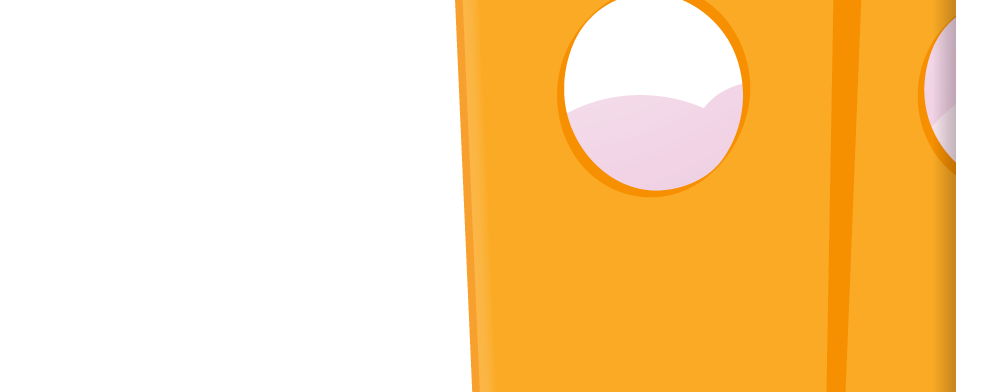
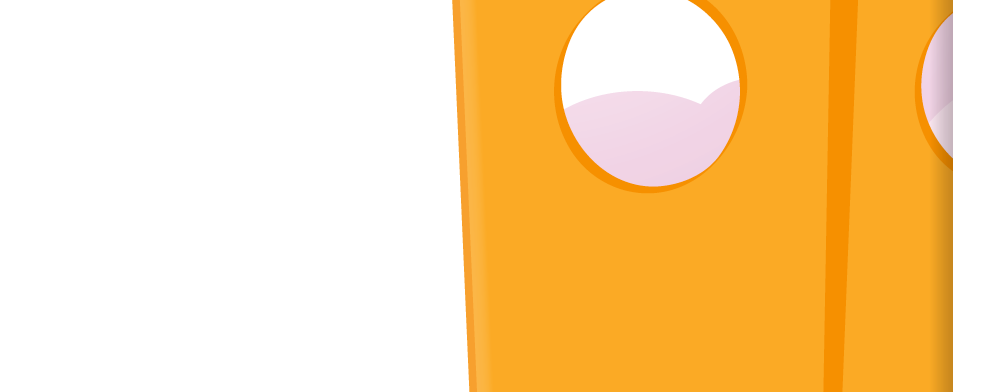
Fixed Drink backgrounds

diff --git a/war/stylesheets/style.css b/war/stylesheets/style.css
@@ -232,6 +232,7 @@ input,select {
 .headerDoor {
 	position: relative;
 	min-height: 149px;
+	top:1px;
 	background: URL("../images/headerDoor.png");
 	background-repeat: no-repeat
 }
@@ -257,23 +258,54 @@ input,select {
 }
 
 	/* DRINK */
-
-orderSubmitterAlternateBody{
+	
+.orderSubmitterAlternateBodyPanel{
 	position: relative;
 	min-height: 392px;
+	width:500px;
+
 }
 
 
-orderSubmitterAlternateBodytile{
+.orderSubmitterAlternateBodytilePanel{
 	position: relative;
 	min-height: 1px;
+	width:500px;
+
 }
 
-orderSubmitterAlternateFooter{
+.orderSubmitterAlternateFooterPanel{
 	position: relative;
 	min-height: 159px;
+
 }
 
+.orderSubmitterAlternateBody{
+	position: relative;
+	min-height: 392px;
+	background: URL("../images/bodyDrink.png");
+}
+
+
+.orderSubmitterAlternateBodytile{
+	position: relative;
+	min-height: 1px;
+	background: URL("../images/bodytileDrink.png");
+}
+
+.orderSubmitterAlternateFooter{
+	position: relative;
+	min-height: 159px;
+	background: URL("../images/footerDrink.png");
+}
+
+.waitLabel {
+	color: #bf007e;
+	font-family: "Arial Black", Gadget, sans-serif;
+	font-size: 30px;
+	left:50px;
+	top:20px;
+}
 
 .admin {
 	position: absolute;

diff --git a/src/com/brainz/wokhei/client/OrderSubmitterModulePart.java b/src/com/brainz/wokhei/client/OrderSubmitterModulePart.java
@@ -5,14 +5,13 @@ package com.brainz.wokhei.client;
 
 import java.util.Arrays;
 
-import com.brainz.wokhei.resources.Images;
 import com.brainz.wokhei.shared.OrderDTO;
 import com.brainz.wokhei.shared.Status;
 import com.google.gwt.event.dom.client.ClickEvent;
 import com.google.gwt.event.dom.client.ClickHandler;
 import com.google.gwt.user.client.rpc.AsyncCallback;
+import com.google.gwt.user.client.ui.AbsolutePanel;
 import com.google.gwt.user.client.ui.Button;
-import com.google.gwt.user.client.ui.Image;
 import com.google.gwt.user.client.ui.Label;
 import com.google.gwt.user.client.ui.RootPanel;
 import com.google.gwt.user.client.ui.TextBox;
@@ -60,26 +59,26 @@ public class OrderSubmitterModulePart extends AModulePart {
 	private final VerticalPanel _alternateRootPanelFooter= new VerticalPanel();
 
 	// these panels are the place olders for the drink images
-	private final VerticalPanel _alternateSubPanelBody= new VerticalPanel();
-	private final VerticalPanel _alternateSubPanelBodyTile= new VerticalPanel();
-	private final VerticalPanel _alternateSubPanelFooter= new VerticalPanel();
+	private final AbsolutePanel _alternateSubPanelBody= new AbsolutePanel();
+	private final AbsolutePanel _alternateSubPanelBodyTile= new AbsolutePanel();
+	private final AbsolutePanel _alternateSubPanelFooter= new AbsolutePanel();
 
-	//these panels are those linked to CSS that will actually contain the images.
-	//these panels can be either hidden or visible
-	private final Image _bodyDrinkImage= new Image(Images.DRINKBODY.getImageURL());
-	private final Image _bodyTileDrinkImage= new Image(Images.DRINKBODYTILE.getImageURL());
-	private final Image _footerDrinkImage= new Image(Images.DRINKFOOTER.getImageURL());
 
-	private final Label _timerLabel = new Label("timer here");
+	private final Label _timerLabel = new Label("Your logo is getting ready, do you fancy a drink meanwhile?");
 
 	// alternate/main panel switch
 	private boolean _isMainPanelVisible = true;
+
+	private final Label _requestLabel = new Label("Request your logo here:");
 
 	@Override
 	public void initModulePart(OrderServiceAsync service) {
 		super.initModulePart(service);
 
 		_mainPanel.setSpacing(10);
+
+		_requestLabel.addStyleName("h3");
+		_mainPanel.add(_requestLabel );
 
 		_logoTextLabel.addStyleName("label");
 
@@ -145,13 +144,18 @@ public class OrderSubmitterModulePart extends AModulePart {
 		// 1. check difference between timestamp and server time
 		// 2. setup countdown
 		// 3. setup timer to refresh client with updated countdown timer every sec 
-		_timerLabel.addStyleName("label");
+		_timerLabel.addStyleName("waitLabel");
+		_timerLabel.setWidth("350px");
 
-		_alternateSubPanelBody.add(_bodyDrinkImage);
-		_alternateSubPanelBodyTile.add(_bodyTileDrinkImage);
-		_alternateSubPanelFooter.add(_footerDrinkImage);
+		_alternateSubPanelBody.addStyleName("orderSubmitterAlternateBody");
+		_alternateSubPanelBodyTile.addStyleName("orderSubmitterAlternateBodytile");
+		_alternateSubPanelFooter.addStyleName("orderSubmitterAlternateFooter");
 
-		_alternateSubPanelBody.add(_timerLabel);
+
+		_alternateSubPanelBody.add(_timerLabel,80,50);
+		_alternateRootPanelBody.setWidth("500px");
+		_alternateRootPanelBodyTile.setWidth("500px");
+		_alternateRootPanelFooter.setWidth("500px");
 
 		_alternateRootPanelBody.add(_alternateSubPanelBody);
 		_alternateRootPanelBodyTile.add(_alternateSubPanelBodyTile);
@@ -232,11 +236,11 @@ public class OrderSubmitterModulePart extends AModulePart {
 	{
 		if(result)
 		{
-			this._timerLabel.setText("all good - timer will go here!");
+			this._timerLabel.setText("Your logo is getting ready, do you fancy a drink meanwhile?");
 		}
 		else
 		{
-			this._timerLabel.setText("Error: you're in some deep shit!");
+			this._timerLabel.setText("An error occurred while sending your request. Please do complain!");
 		}
 	}
 
